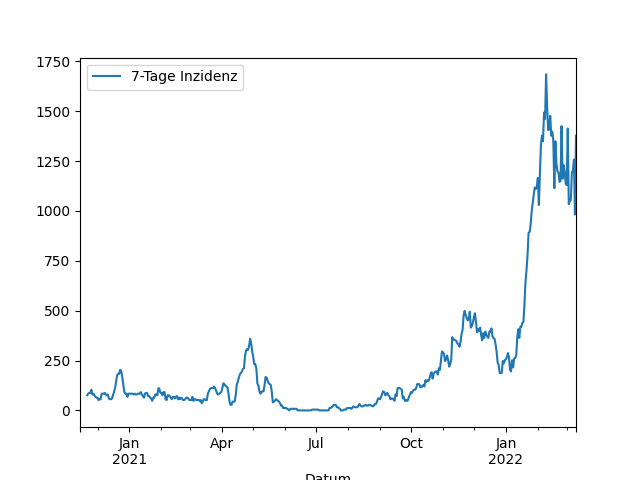
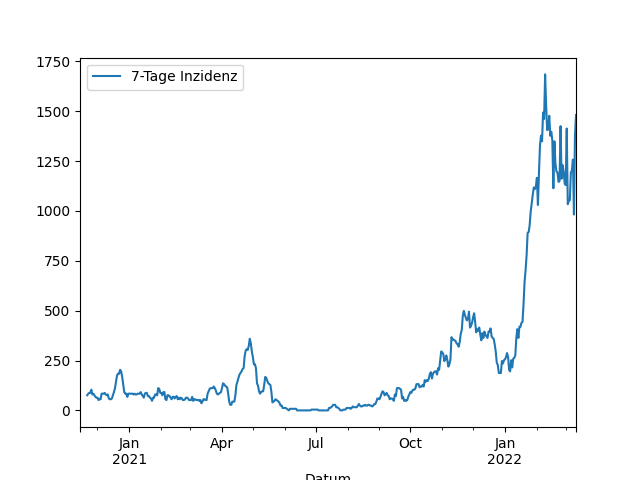
Update images

diff --git a/_includes/aktuelle_inzidenz.md b/_includes/aktuelle_inzidenz.md
@@ -1,1 +1,1 @@
-1377,1
+1480,9
